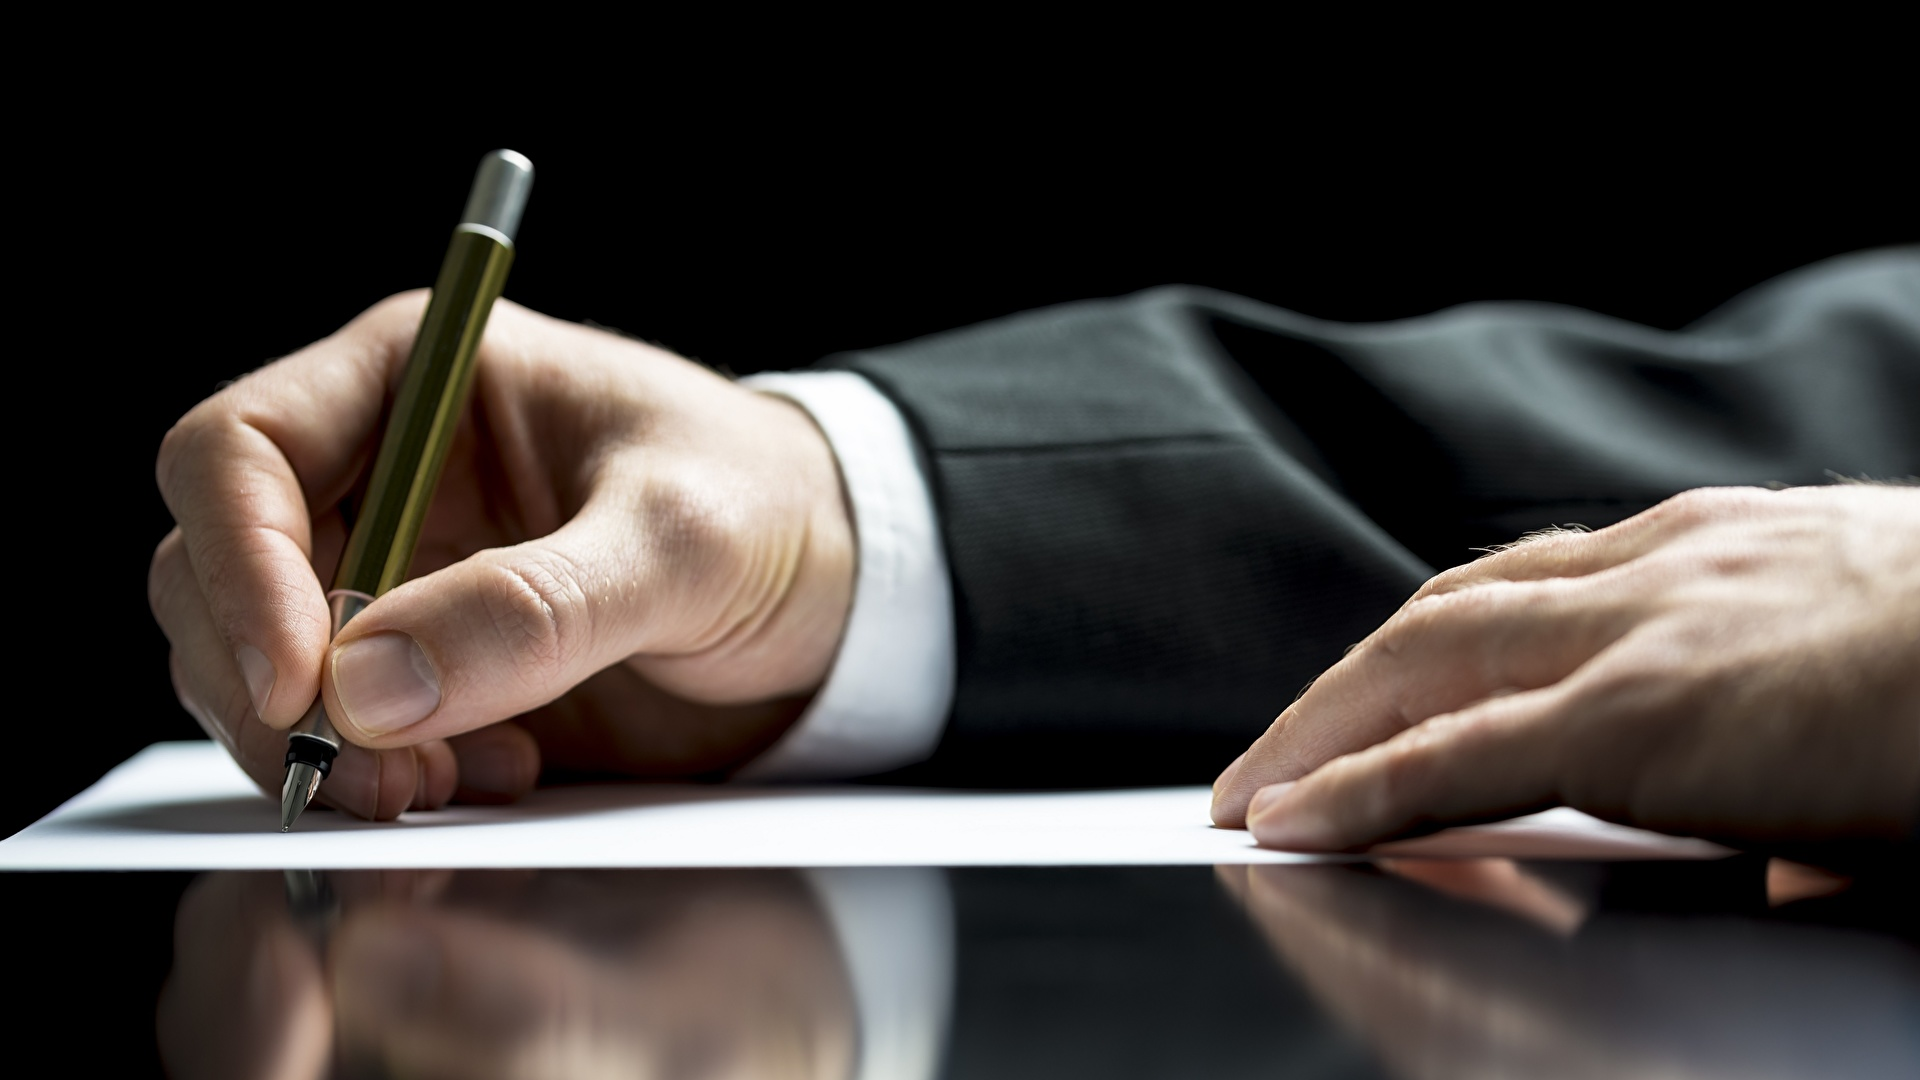
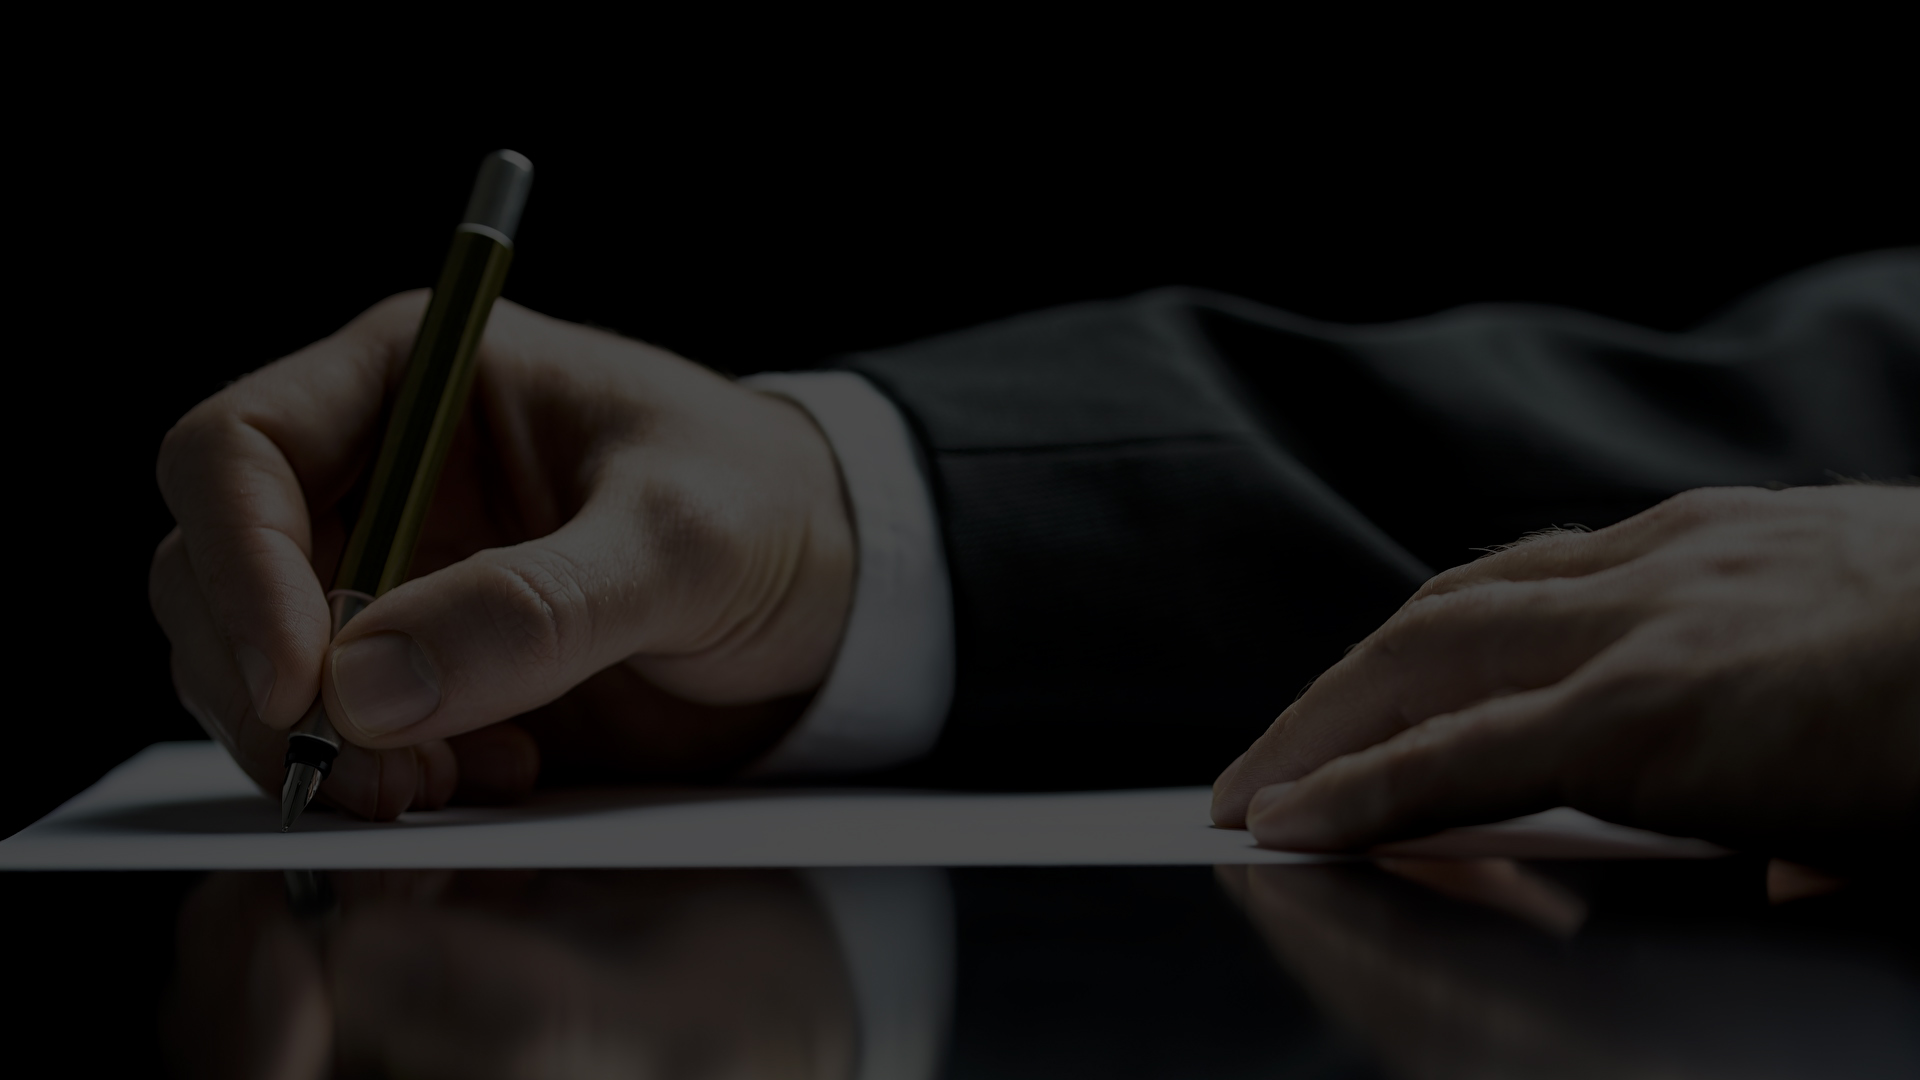
portada

diff --git a/index.html b/index.html
@@ -76,8 +76,35 @@
                 <h1 class="text-white ">Divorcios de
                     mutuo
                     acuerdo desde <br>$ 200.000 pesos.</h1>
+                <div>
+                    <span><i class="fa-solid fa-check destacado fa-2x cuadroblock"></i> </span>
+                    <span class="text-white etiquetas">Formaliza tu <span class="destacado">SEPARACIÓN</span>, no
+                        dejes
+                        cabos
+                        sueltos que pueden traer
+                        problemas.</span>
+                </div>
+                <div>
+                    <span> <i class="fa-solid fa-check destacado fa-2x"></i></span>
+                    <span class="text-white etiquetas ">Haz tu divorcio <span class="destacado">100%
+                            ONLINE,
+                            SIN
+                            AUDIENCIA</span> y en menos de <span class="destacado">15 DÍAS.</span></span>
+                </div>
+                <div>
+                    <i class="fa-solid fa-check destacado fa-2x"></i>
+                    <span class="text-white etiquetas">Consulta por los acuerdos sobre <span class="destacado">BIENES,
+                            PENSIÓN, TUICIÓN, etc.</span></span>
+                </div>
+                <div>
 
+                    <i class="fa-solid fa-check destacado fa-2x"></i>
+                    <span class="text-white  etiquetas ">Pide tu asesoría y resuelve todas tus
+                        dudas,<span class="destacado">
+                            ¡es GRATIS!</span></span>
+                </div>
             </div>
+
 
             <form id="formularioContacto" class="col-12 col-md-4 pb-5 ">
                 <div class="pt-5 cuadroForm px-3 ">
@@ -159,7 +186,8 @@
                     <p class="card-text text-white">Somos profesionales dispuesto a ayudarte. Llámanos al +56 988019523
                         o
                         escríbenos al correo
-                        <a class="mail" href="mailto:contacto@miabogadoasesor.cl">contacto@miabogadoasesor.cl</a> .
+                        <a class="mail"
+                            href="mailto:contacto@divorciomutuoacuerdo.cl">contacto@divorciomutuoacuerdo.cl</a> .
                     </p>
                     <a class="btn btn-primary" href="#">Contactanos</a>
                 </div>

diff --git a/assets/css/style.css b/assets/css/style.css
@@ -74,6 +74,7 @@
     background-position: center;
     background-repeat: no-repeat;
     background-size: cover;
+    filter: brightness(1);
 }
 
 h1,
@@ -146,4 +147,14 @@ h2 {
 
 .mail {
     color: #3cda0c;
+}
+
+.etiquetas {
+    text-shadow: rgb(15, 17, 100) 2px 0 10px;
+    font-size: x-large;
+}
+
+.destacado {
+    color: #3cda0c;
+
 }
